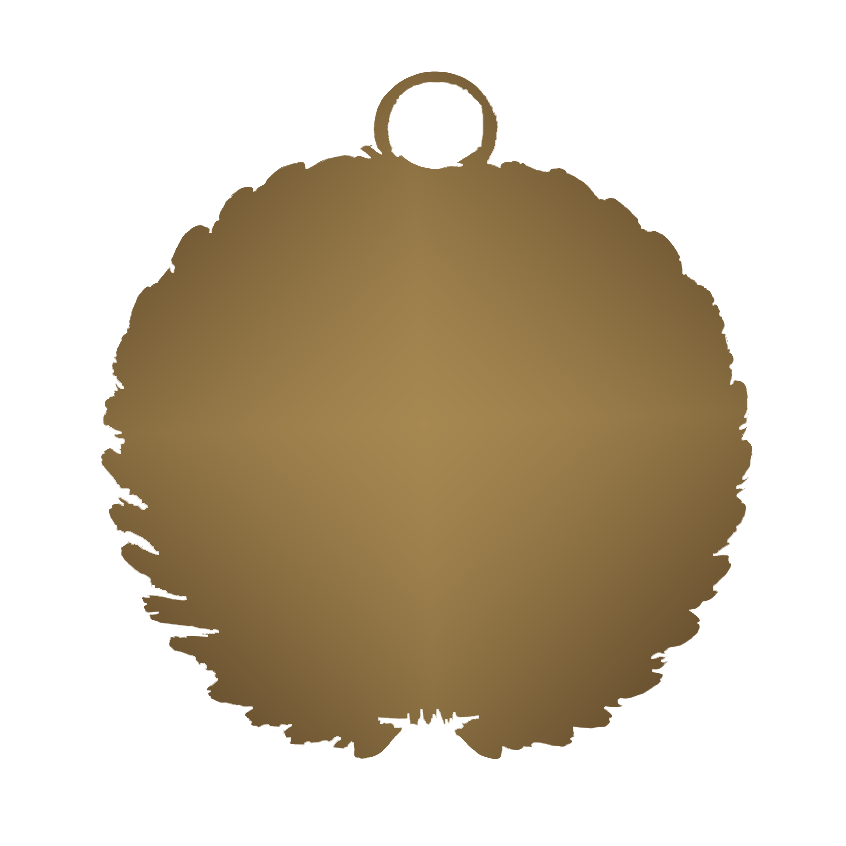
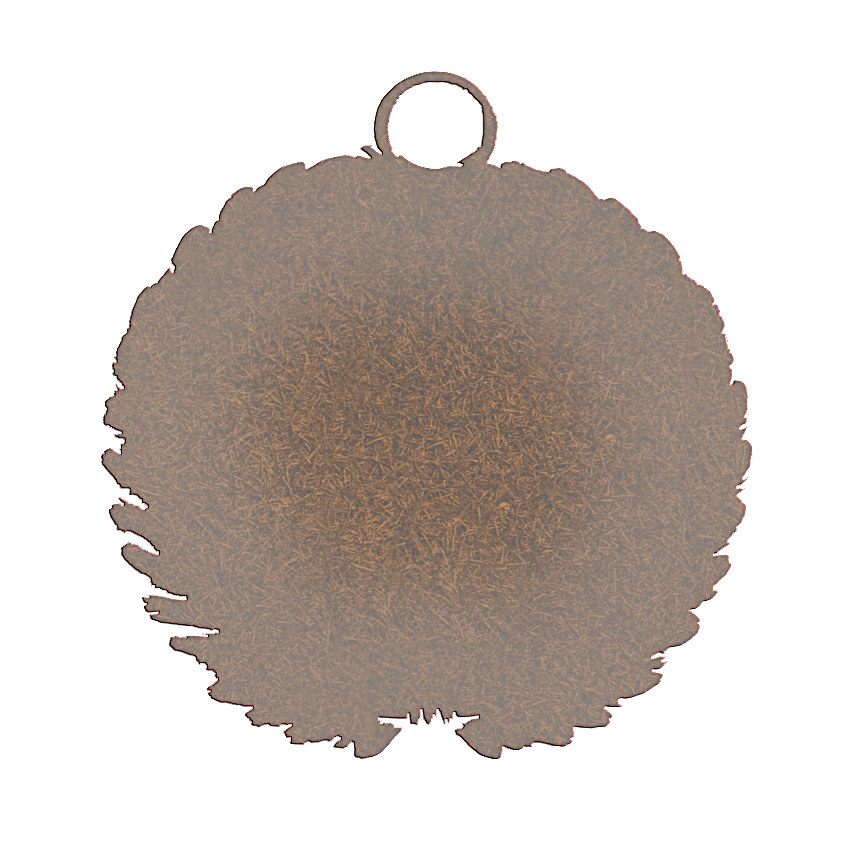
setup

diff --git a/src/Components/Legionary/Medals.module.scss b/src/Components/Legionary/Medals.module.scss
@@ -11,8 +11,10 @@
     gap: .5rem;
     padding: .5rem;
     border-radius: .5rem;
-    background: radial-gradient(ellipse farthest-corner at right bottom, #FEDB37 0%, #FDB931 8%, #9f7928 30%, #8A6E2F 40%, transparent 80%),
-                radial-gradient(ellipse farthest-corner at left top, #FFFFFF 0%, #FFFFAC 8%, #D1B464 25%, #5d4a1f 62.5%, #5d4a1f 100%);
+    background-image: url('../../../public/Images/background-gold.png');
+    background-position: center center;
+    background-repeat: no-repeat;
+    background-size: cover;
     
 
     li {
@@ -24,18 +26,12 @@
         padding: 1rem;
         border-radius: .5rem;
         z-index: 31;
-        
-        background: #C19A6B;
-        color: #A37C4D;
-        background: linear-gradient(to bottom, #855315 0%, #654114 100%);
-        background: -webkit-gradient(linear, left top, left bottom, color-stop(0%, #855315), color-stop(100%, #654114));
-        background: -webkit-linear-gradient(top, #855315 0%, #654114 100%);
-        background: -moz-linear-gradient(top, #855315 0%, #654114 100%);
-        background: -o-linear-gradient(top, #855315 0%, #654114 100%);
-        background: -ms-linear-gradient(top, #855315 0%, #654114 100%);
-        filter: progid:DXImageTransform.Microsoft.gradient(startColorstr='#C19A6B', endColorstr='#B28B5C', GradientType=0);
+        background-image: url('../../../public/Images/background-gold-brown.png');
+        background-position: center 100%;
+        background-repeat: no-repeat;
+        background-size: cover;
 
-        box-shadow: inset 0 0 15px rgba(0, 0, 0, 0.5);
+        box-shadow: inset 0 0 15px rgba(0, 0, 0, 0.5), 0 0 5px rgba(0, 0, 0, 0.5);
         &:hover {
             cursor: pointer;
             z-index: 33;
@@ -74,6 +70,8 @@
         background: -moz-linear-gradient(top, #C19A6B 0%, #B28B5C 100%);
         background: -o-linear-gradient(top, #C19A6B 0%, #B28B5C 100%);
         background: -ms-linear-gradient(top, #C19A6B 0%, #B28B5C 100%);
+        
+
         color: white;
         display: flex;
         flex-direction: column;

diff --git a/src/Components/Legionary/Legionary.module.scss b/src/Components/Legionary/Legionary.module.scss
@@ -3,9 +3,8 @@
 .legionary {    
     position: relative;
     width: calc(100% / 3 - (2rem * (3 - 1))/3);
-    background: radial-gradient(ellipse farthest-corner at right bottom, #FEDB37 0%, #FDB931 8%, #9f7928 30%, #8A6E2F 40%, transparent 80%),
-                radial-gradient(ellipse farthest-corner at left top, #FFFFFF 0%, #FFFFAC 8%, #D1B464 25%, #5d4a1f 62.5%, #5d4a1f 100%);
     cursor: pointer;
+    color: #532f04;
     @include breakpoint-down(mobile) {
         width: calc(100% / 2 - (2rem * (2 - 1))/2);
     }
@@ -23,6 +22,7 @@
     .imageWrapper {
         position: relative; 
         padding: .5rem;
+        padding-bottom: 0;
         z-index: 2;
         @include breakpoint-down(mobile) {
             padding: .25rem;
@@ -39,13 +39,22 @@
     }
 
     .about {
+        background-image: url('../../../public/Images/background-gold.png');
+    background-position: 100% center;
+    background-repeat: no-repeat;
+    background-size: cover;
+        font-size: 1.3rem;
         position: relative;
         @include flexCenter;
-        font-weight: 500;
+        font-weight: 600;
         z-index: 1;
-        padding: 0 0 1.5rem 0;
+        padding: .3rem 0 1.5rem 0;
         @include breakpoint-down(mobile) {
-            padding: 0 0 1rem 0;
+            padding: .3rem 0 1rem 0;
+        }
+
+        p {
+            font-weight: 700;
         }
 
         .border {

diff --git a/src/Data/legionaries.ts b/src/Data/legionaries.ts
@@ -15,17 +15,17 @@ export const legionaries = [
     name: "Faraonqbg",
     rank: "Legatus Legionis",
     legion: "OG",
-    medals: awardMedals(medals, ["1", "2", "7", "9"]),
-  },
-  {
-    name: "Mis_ok",
-    rank: "Praetor",
-    legion: "OG",
-    medals: awardMedals(medals, []),
+    medals: awardMedals(medals, ["2", "7", "9"]),
   },
   {
     name: "Dudie",
     rank: "Tribunis Laticlavius",
+    legion: "OG",
+    medals: awardMedals(medals, []),
+  },
+  {
+    name: "Mis_ok",
+    rank: "Praetor",
     legion: "OG",
     medals: awardMedals(medals, []),
   },

diff --git a/src/Pages/People/People.tsx b/src/Pages/People/People.tsx
@@ -63,7 +63,10 @@ export const People = () => {
         <div className={classes.body}>
           <div className={classes.legionaries}>
             {filtered &&
-              filtered.map((legionary) => <Legionary {...legionary} />)}
+              filtered.map((legionary) => {
+                if (legionary.name !== "VACANT")
+                  return <Legionary {...legionary} />;
+              })}
           </div>
         </div>
       </div>

diff --git a/src/Components/Legionary/Legionary.tsx b/src/Components/Legionary/Legionary.tsx
@@ -15,6 +15,8 @@ export type TypeLegionary = {
 export const Legionary = ({ name, rank, legion, medals }: TypeLegionary) => {
   const [isOpen, setIsOpen] = useState(false);
   const imageLink = `Images/people/${name}.png`;
+  const defaultImage = "Images/people/default.png";
+  // const picture = new URL(imageLink).protocol ? imageLink : defaultImage;
 
   const open = () => {
     setIsOpen(true);
